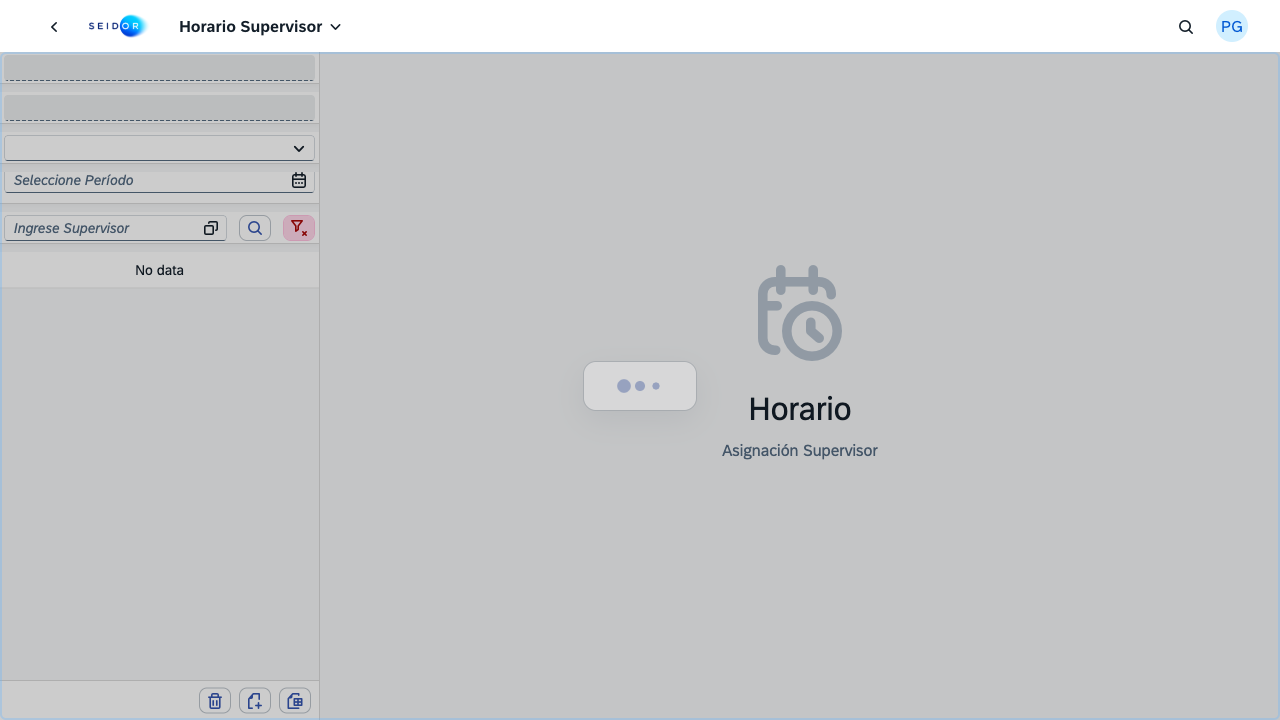
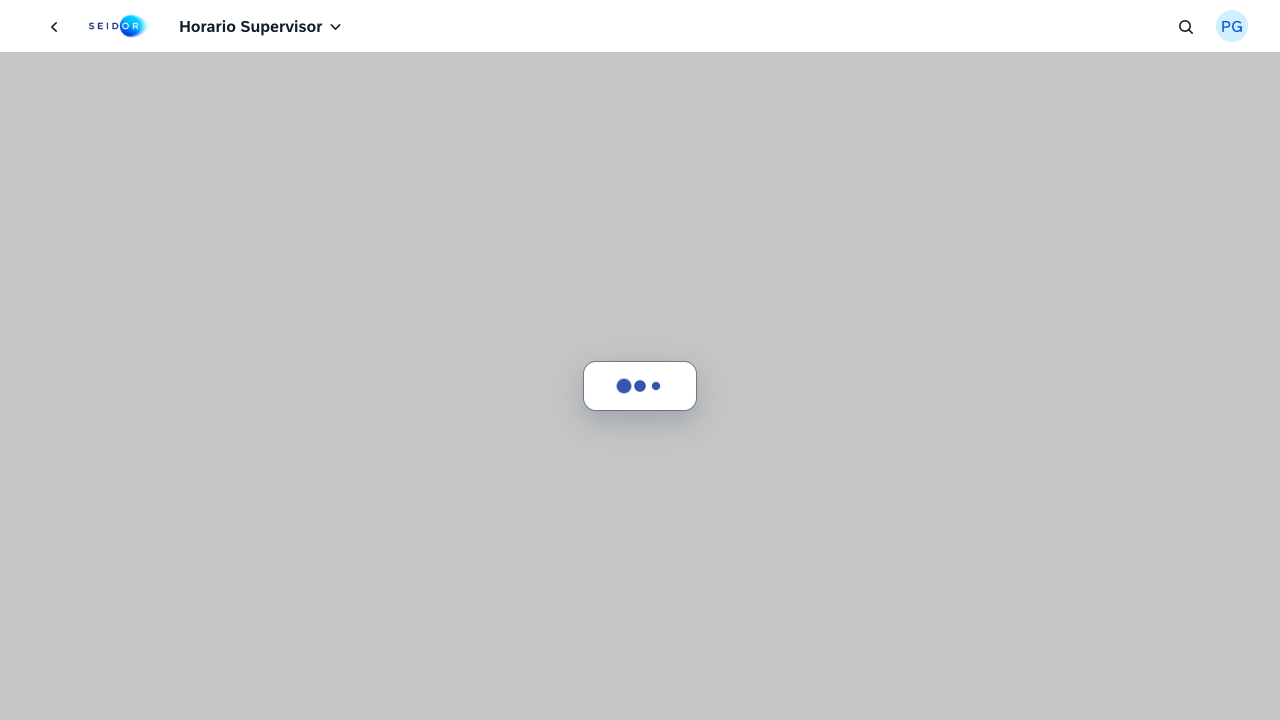
Refactor simple: Scroll por ID y locadores estables en Horario Supervisor

diff --git a/scripts/caso-horario-supervisor.spec.js b/scripts/caso-horario-supervisor.spec.js
@@ -163,25 +163,21 @@ test(`Horario Supervisor — Flujo Diario [${testConfig.fechaHoy}]`, async ({ pa
             
             // ESPERAR A QUE CARGUE EL DETALLE (Panel derecho con título "Horario")
             console.log("⏳ Esperando que cargue el panel de Horario...");
-            await frameInputs.locator('.sapMTitle:has-text("Horario"), .sapMPageTitle:has-text("Horario")').waitFor({ state: 'visible', timeout: 10000 })
-                .catch(() => console.log("⚠️ Timeout esperando título 'Horario', procediendo..."));
+            const detalleCargado = await frameInputs.locator('.sapMTitle:has-text("Horario"), .sapMPageTitle:has-text("Horario"), .sapMTable').first().waitFor({ state: 'visible', timeout: 10000 })
+                .then(()=>true).catch(() => false);
+            
+            if (!detalleCargado) {
+                 console.log("⚠️ El detalle parece estar vacío o no cargó la tabla. Intentando forzar creación...");
+            }
             
             await page.waitForTimeout(1000);
             await shot('hs_03_detalle_abierto');
             
             // VALIDAR ÚLTIMA FILA (FECHA DE HOY)
             console.log("📝 Haciendo scroll hasta el final de la lista de horarios por semana...");
-            try {
-                const tableElement = frameInputs.locator('.sapMTable, table').last();
-                await tableElement.scrollIntoViewIfNeeded({ timeout: 3000 });
-            } catch (e) { console.log('⚠️ No se pudo hacer auto-scroll a la tabla, forzando por evaluate...'); }
-            
             await page.evaluate(() => {
-                const scrollContainers = document.querySelectorAll('.sapMScrollCont');
-                if (scrollContainers.length > 0) {
-                     const lastContainer = scrollContainers[scrollContainers.length - 1];
-                     lastContainer.scrollTop = lastContainer.scrollHeight;
-                }
+                const scrollable = document.querySelector('[id$="--table-scroll"], .sapUiTableCtrlScr, .sapMScrollCont:last-child');
+                if (scrollable) scrollable.scrollTop = scrollable.scrollHeight;
             }).catch(() => {});
             await page.waitForTimeout(500);
 
@@ -210,7 +206,6 @@ test(`Horario Supervisor — Flujo Diario [${testConfig.fechaHoy}]`, async ({ pa
             await page.keyboard.press('Enter');
             
             // Seleccionar el item de la lista en el popup
-            // Al presionar Enter, Fiori filtra la lista. Usaremos el selector de usuario directamente y removeremos esperas innecesarias para no quedarse 'un buen rato'.
             const userTextToFind = `Usuario: ${env.user.toUpperCase()}`;
             const popItem = frameInputs.locator('.sapMDialog, [role="dialog"]').getByText(userTextToFind, { exact: false }).first();
             await popItem.click({ timeout: 5000, force: true });
@@ -222,17 +217,15 @@ test(`Horario Supervisor — Flujo Diario [${testConfig.fechaHoy}]`, async ({ pa
 
         // 6. AGREGAR DETALLE (+) DE UN DÍA
         logStep('agregar-dia', 'running');
-        // El icono de SAP para "Agregar" es el código  (e105)
+        // Usamos el icono universal de Fiori para agregar si el title falla
         const selectorIconoMas = '[data-sap-ui-icon-content=""]';
-        
         let btnMas;
         try {
-            // Buscamos cualquier botón que contenga el icono de '+' en el panel de detalle
-            btnMas = frameInputs.locator(`button:has(${selectorIconoMas}), .sapMTableToolbar button, .sapMTB button`).last();
+            btnMas = frameInputs.locator(`button:has(${selectorIconoMas}), .sapMTableToolbar button:has(${selectorIconoMas}), .sapMTB button:has(${selectorIconoMas})`).last();
             await btnMas.click({ timeout: 5000, force: true });
         } catch {
-            console.log("⚠️ No se encontró por icono, intentando por título o clases de toolbar...");
-            btnMas = await find('button[title*="Agregar"], button[title*="agregar"], .sapMTableToolbar button:last-child', 5000);
+            console.log("⚠️ No se encontró por icono, intentando por ID parcial o título...");
+            btnMas = frameInputs.locator('button[id$="add-btn"], button[id$="addRow-btn"], button[title*="Agregar"]').last();
             await btnMas.click({ timeout: 5000, force: true });
         }
         await page.waitForTimeout(500);

diff --git a/test-results/scripts-caso-horario-super-2d8fb--—-Flujo-Diario-28-02-2026-/error-context.md b/test-results/scripts-caso-horario-super-2d8fb--—-Flujo-Diario-28-02-2026-/error-context.md
@@ -53,7 +53,7 @@
                       - generic [ref=f1e35]: 
                     - generic [ref=f1e37]:
                       - generic [ref=f1e42]:
-                        - textbox "Seleccione Período": 02-2026
+                        - textbox "Seleccione Período" [active]: 28/02/2026
                         - generic [ref=f1e44] [cursor=pointer]: 
                       - generic [ref=f1e47]:
                         - toolbar [ref=f1e49]:
@@ -1170,89 +1170,13 @@
                   - toolbar "Footer actions" [ref=f1e1771]:
                     - button "Eliminar Supervisor" [ref=f1e1773] [cursor=pointer]:
                       - generic [ref=f1e1775]: 
-                    - button "Agregar Supervisor" [active] [ref=f1e1776] [cursor=pointer]:
+                    - button "Agregar Supervisor" [ref=f1e1776] [cursor=pointer]:
                       - generic [ref=f1e1778]: 
                     - button "Exportar Excel" [ref=f1e1779] [cursor=pointer]:
                       - generic [ref=f1e1781]: 
-              - generic [ref=f1e1783]:
-                - text: 
-                - generic [ref=f1e1785]:
-                  - banner [ref=f1e1786]:
-                    - heading "Agregar Asignación" [level=2] [ref=f1e1789]
-                  - generic [ref=f1e1790]:
-                    - form "Datos Asignación" [ref=f1e1791]:
-                      - heading "Datos Asignación" [level=2] [ref=f1e1792]:
-                        - generic [ref=f1e1793]: Datos Asignación
-                      - region [ref=f1e1798]:
-                        - generic [ref=f1e1800]:
-                          - form [ref=f1e1802]:
-                            - heading [level=5] [ref=f1e1803]
-                            - generic [ref=f1e1805]:
-                              - generic [ref=f1e1808]:
-                                - generic [ref=f1e1809]: Sede
-                                - generic [ref=f1e1810]: ":"
-                              - generic [ref=f1e1812] [cursor=pointer]:
-                                - combobox "Sede" [ref=f1e1813]: SAN ISIDRO
-                                - textbox [ref=f1e1814]: "246"
-                                - generic [ref=f1e1815]: SAN ISIDRO
-                                - text: 
-                              - generic [ref=f1e1818]:
-                                - generic [ref=f1e1819]: Supervisor
-                                - generic [ref=f1e1820]: :*
-                              - textbox "Supervisor" [disabled] [ref=f1e1824]:
-                                - /placeholder: Ingrese Supervisor
-                          - form [ref=f1e1826]:
-                            - heading [level=5] [ref=f1e1827]
-                            - generic [ref=f1e1829]:
-                              - generic [ref=f1e1832]:
-                                - generic [ref=f1e1833]: Área
-                                - generic [ref=f1e1834]: :*
-                              - generic [ref=f1e1836] [cursor=pointer]:
-                                - combobox "Área" [ref=f1e1837]: Seleccione Área
-                                - textbox [ref=f1e1838]
-                                - generic [ref=f1e1839]: Seleccione Área
-                                - generic [ref=f1e1840]: 
-                              - generic [ref=f1e1843]:
-                                - generic [ref=f1e1844]: Período
-                                - generic [ref=f1e1845]: :*
-                              - generic [ref=f1e1848]:
-                                - textbox "Período":
-                                  - /placeholder: Seleccione Período
-                                - generic [ref=f1e1850] [cursor=pointer]: 
-                    - generic [ref=f1e1854]:
-                      - toolbar "Horario" [ref=f1e1857]:
-                        - heading "Horario" [level=2] [ref=f1e1859]
-                        - button "Eliminar Selección" [ref=f1e1861] [cursor=pointer]:
-                          - generic [ref=f1e1863]: 
-                        - button "Agregar Detalle" [ref=f1e1864] [cursor=pointer]:
-                          - generic [ref=f1e1866]: 
-                      - grid [ref=f1e1868]:
-                        - generic [ref=f1e1870]:
-                          - checkbox [ref=f1e1871] [cursor=pointer]
-                          - row "Semana Fecha Inicio Fecha Fin" [ref=f1e1874]:
-                            - columnheader "Semana" [ref=f1e1875]:
-                              - generic [ref=f1e1880]: Semana
-                            - columnheader "Fecha Inicio" [ref=f1e1881]:
-                              - generic [ref=f1e1886]: Fecha Inicio
-                            - columnheader "Fecha Fin" [ref=f1e1887]:
-                              - generic [ref=f1e1892]: Fecha Fin
-                            - columnheader [ref=f1e1893]
-                            - columnheader [ref=f1e1896]
-                        - generic [ref=f1e1899]:
-                          - table [ref=f1e1902]:
-                            - rowgroup [ref=f1e1903]:
-                              - row [ref=f1e1904]:
-                                - gridcell [ref=f1e1905]
-                                - gridcell [ref=f1e1906]: 
-                                - gridcell [ref=f1e1907]: 
-                                - gridcell [ref=f1e1908]: 
-                                - gridcell [ref=f1e1909]: 
-                                - gridcell [ref=f1e1910] [cursor=pointer]
-                          - row [ref=f1e1912]
-                          - gridcell "No data" [ref=f1e1913]:
-                            - generic [ref=f1e1914]: No data
-                  - contentinfo [ref=f1e1915]:
-                    - button "Save" [ref=f1e1918] [cursor=pointer]:
-                      - generic [ref=f1e1920]: 
+              - generic [ref=f1e1789]:
+                - generic [ref=f1e1790]: 
+                - generic [ref=f1e1791]: Horario
+                - generic [ref=f1e1792]: Asignación Supervisor
     - contentinfo
 ```